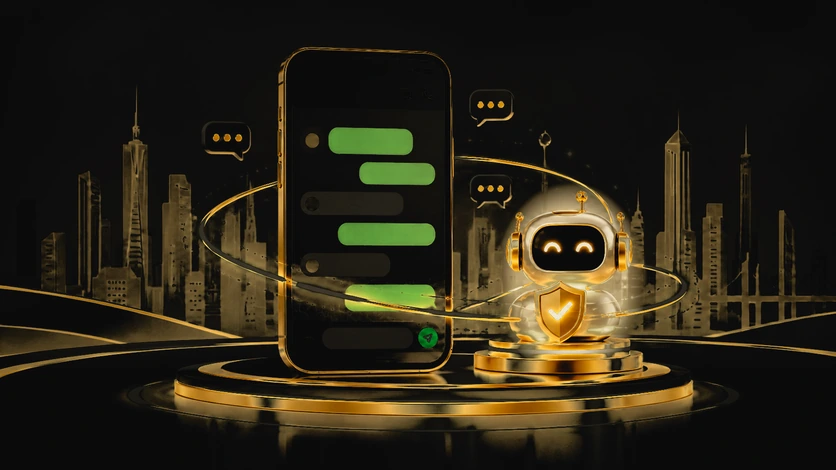
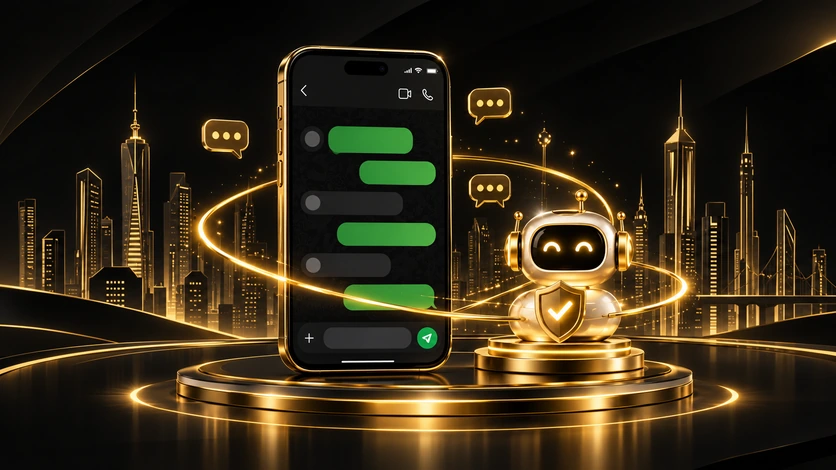
v2.11.2 real hero pictures, clean light bar

diff --git a/public/style.css b/public/style.css
@@ -537,27 +537,23 @@ footer p.copy { font-size: 13px; margin-top: 6px; opacity: .85; }
   .panel { padding: 26px 26px; }
 }
 /* ---------- light theme for the floating bar, hero and the black "ticket" boxes (everything follows the chosen theme) ---------- */
-[data-theme="light"] .island { color: #14110B; box-shadow: 0 0 0 1px rgba(154, 122, 50, .35), 0 0 16px rgba(201, 164, 92, .25), 0 12px 26px -10px rgba(138, 106, 43, .45), 0 22px 34px -18px rgba(11, 11, 11, .28); }
-[data-theme="light"] .island.scrolled { box-shadow: 0 0 0 1px rgba(154, 122, 50, .4), 0 0 20px rgba(201, 164, 92, .3), 0 16px 30px -10px rgba(138, 106, 43, .5), 0 28px 38px -16px rgba(11, 11, 11, .32); }
-[data-theme="light"] .glass { background: linear-gradient(180deg, rgba(255, 254, 250, .95), rgba(250, 246, 234, .95) 55%, rgba(243, 236, 218, .97));
-  box-shadow: inset 0 1px 0 rgba(255, 255, 255, .95), inset 0 0 16px rgba(201, 164, 92, .2), inset 0 -10px 18px -12px rgba(154, 122, 50, .3); }
-[data-theme="light"] .glass::before { background: linear-gradient(180deg, rgba(255, 255, 255, .7), transparent); }
-[data-theme="light"] .glass::after { background: linear-gradient(100deg, transparent, rgba(255, 255, 255, .85), rgba(255, 250, 235, .5), transparent); }
-[data-theme="light"] .bloom { background: radial-gradient(55% 85% at 50% 50%, rgba(214, 170, 80, .5), rgba(201, 164, 92, 0) 74%); }
-[data-theme="light"] .bloom.b2 { background: radial-gradient(40% 90% at 22% 50%, rgba(232, 190, 100, .45), transparent 70%), radial-gradient(40% 90% at 80% 50%, rgba(201, 164, 92, .4), transparent 70%); }
-[data-theme="light"] .flow { filter: drop-shadow(0 0 3px rgba(201, 164, 92, .8)); }
-[data-theme="light"] .flow .head { stroke: #9A6F1E; }
-[data-theme="light"] .flow .tail { stroke: #C9A45C; }
-[data-theme="light"] .flow .glowline { stroke: rgba(201, 164, 92, .45); }
-[data-theme="light"] .flow .echo { stroke: rgba(154, 122, 50, .65); }
-[data-theme="light"] .sparks i { background: #D4AE5F; box-shadow: 0 0 8px 2px rgba(201, 164, 92, .8); }
+/* light bar: clean and still - an ivory pill with one thin gold outline, a soft shadow, a dark logo tile and thin gold rings on the buttons.
+   No travelling light, glow, sparks, glass shine or blur (those belong to the dark bar). */
+[data-theme="light"] .island, [data-theme="light"] .island.scrolled { color: #14110B; box-shadow: 0 12px 26px -16px rgba(138, 106, 43, .38), 0 2px 6px -2px rgba(138, 106, 43, .18); }
+[data-theme="light"] .island.scrolled { box-shadow: 0 16px 30px -16px rgba(138, 106, 43, .5), 0 2px 6px -2px rgba(138, 106, 43, .22); }
+[data-theme="light"] .ring { animation: none; background: linear-gradient(180deg, #DCC48C, #BE9A52); }
+[data-theme="light"] .glass { inset: 1.5px; background: linear-gradient(180deg, #FFFDF8, #FBF4E6); box-shadow: none; -webkit-backdrop-filter: none; backdrop-filter: none; }
+[data-theme="light"] .glass::before, [data-theme="light"] .glass::after, [data-theme="light"] .bloom, [data-theme="light"] .flow, [data-theme="light"] .sparks { display: none; }
+[data-theme="light"] .logo { animation: none; box-shadow: none; }
+[data-theme="light"] .logo::before { display: none; }
+[data-theme="light"] .logo img { filter: none; }
 [data-theme="light"] .brand, [data-theme="light"] .word { color: #14110B; }
 [data-theme="light"] .tag { color: #8A6A2B; }
 [data-theme="light"] .vr { background: linear-gradient(transparent, rgba(154, 122, 50, .7), transparent); }
-[data-theme="light"] .badge, [data-theme="light"] a.navlink { color: #4A3811; background: rgba(201, 164, 92, .16); border-color: rgba(154, 122, 50, .55); }
+[data-theme="light"] .badge, [data-theme="light"] a.navlink { color: #4A3811; background: transparent; border-color: rgba(168, 134, 62, .7); animation: none; box-shadow: none; }
 [data-theme="light"] a.navlink svg { color: #8A6A2B; }
 [data-theme="light"] .bdot { background: #B8892F; box-shadow: 0 0 8px rgba(184, 137, 47, .8); }
-[data-theme="light"] .ibtn { color: #7A5A1E; background: rgba(201, 164, 92, .12); border-color: rgba(154, 122, 50, .5); }
+[data-theme="light"] .ibtn { color: #8A6A2B; background: transparent; border-color: rgba(168, 134, 62, .7); }
 [data-theme="light"] .ibtn:active { background: rgba(201, 164, 92, .3); border-color: #9A7A32; }
 [data-theme="light"] .ibtn:focus-visible, [data-theme="light"] .brand:focus-visible, [data-theme="light"] a.navlink:focus-visible { outline-color: #14110B; }
 @media (hover: hover) { [data-theme="light"] .ibtn:hover, [data-theme="light"] a.navlink:hover { background: rgba(201, 164, 92, .26); border-color: #9A7A32; } }

diff --git a/TURBOFEX_AI_NOTES.md b/TURBOFEX_AI_NOTES.md
@@ -84,7 +84,7 @@ cd ~/TurboFex-Pairing-site && rm -rf ~/tfx && mkdir -p ~/tfx && unzip -o ~/stora
 - **Cannot be tested in the AI sandbox:** real iPhone Safari (WebKit not available), real WhatsApp linking, WhatsApp interactive buttons, link previews, the live Render site. Say so, and ask the owner for screenshots or Render logs when something fails.
 
 ## 8. Version history (short)
-v1.x crash fix, pairing site, redesign, dark mode, floating island, sounds -> v2.0.0 black/gold redesign -> v2.1.x design correction (hero centred, light mode everywhere) -> v2.2.x island visible on Safari, refresh continues, footer space -> v2.3.0 FAQ + side-by-side cards + soft sounds + low-end mode -> v2.4.0 separate session-ID message -> **v2.5.0 links together in one message with full-width picture card -> v2.5.1 this notes file moved inside the site project -> v2.6.0 order: links first, note, session ID last; the card is the real WhatsApp Channel preview -> v2.7.0 the page detects when the bot used the ID and says so -> v2.8.0 smoother floating bar on Android, Help opens Telegram, version and footer sentence removed -> v2.8.1 shorter connection card -> v2.9.0 new hero illustration (light + dark) -> v2.9.1 current WhatsApp Web version for linking + hint on the code page -> v2.9.2 five version sources, newest wins, each logged -> **v2.10.0** new look: no hero badges, frameless full-width hero that fades into the page (CSS mask), light = ivory/champagne (--bg #FAF3E6), dark = black/gold; dark hero picture recoloured to remove the brown tint -> **v2.10.1** sharp hero (real <img> with srcset 836w/1672w from the full-size 1672px original; the dark one was rebuilt from the full-size source in one pass) + theme switch without blink: NO View Transition API any more (its snapshot lost the hero on phones); both <img> stay mounted (light underneath, dark on top), the new one is decode()d first, then `html.theming` fades everything over `--theme-t`. -> **v2.11.0** Try again button (`#retry`, `retry()` in app.js, new `POST /api/cancel/:id`), `ended()` shows a message instead of an empty code/QR box, PAIR_LIMIT default 10, dark hero rebuilt as true black + gold, oval mask on the hero.
+v1.x crash fix, pairing site, redesign, dark mode, floating island, sounds -> v2.0.0 black/gold redesign -> v2.1.x design correction (hero centred, light mode everywhere) -> v2.2.x island visible on Safari, refresh continues, footer space -> v2.3.0 FAQ + side-by-side cards + soft sounds + low-end mode -> v2.4.0 separate session-ID message -> **v2.5.0 links together in one message with full-width picture card -> v2.5.1 this notes file moved inside the site project -> v2.6.0 order: links first, note, session ID last; the card is the real WhatsApp Channel preview -> v2.7.0 the page detects when the bot used the ID and says so -> v2.8.0 smoother floating bar on Android, Help opens Telegram, version and footer sentence removed -> v2.8.1 shorter connection card -> v2.9.0 new hero illustration (light + dark) -> v2.9.1 current WhatsApp Web version for linking + hint on the code page -> v2.9.2 five version sources, newest wins, each logged -> **v2.10.0** new look: no hero badges, frameless full-width hero that fades into the page (CSS mask), light = ivory/champagne (--bg #FAF3E6), dark = black/gold; dark hero picture recoloured to remove the brown tint -> **v2.10.1** sharp hero (real <img> with srcset 836w/1672w from the full-size 1672px original; the dark one was rebuilt from the full-size source in one pass) + theme switch without blink: NO View Transition API any more (its snapshot lost the hero on phones); both <img> stay mounted (light underneath, dark on top), the new one is decode()d first, then `html.theming` fades everything over `--theme-t`. -> **v2.11.0** Try again button (`#retry`, `retry()` in app.js, new `POST /api/cancel/:id`), `ended()` shows a message instead of an empty code/QR box, PAIR_LIMIT default 10, dark hero rebuilt as true black + gold, oval mask on the hero -> **v2.11.1** light-mode floating bar made clean (static ring, no bloom/flow/sparks/glass shine; dark bar untouched) -> **v2.11.2** hero = the owner's real light + dark 1672x941 pictures (no recolouring any more; the earlier derived dark picture is gone).
 
 ## 9. Open ideas the owner has not decided
 - Keep Render awake with a free pinger on `/health`.
